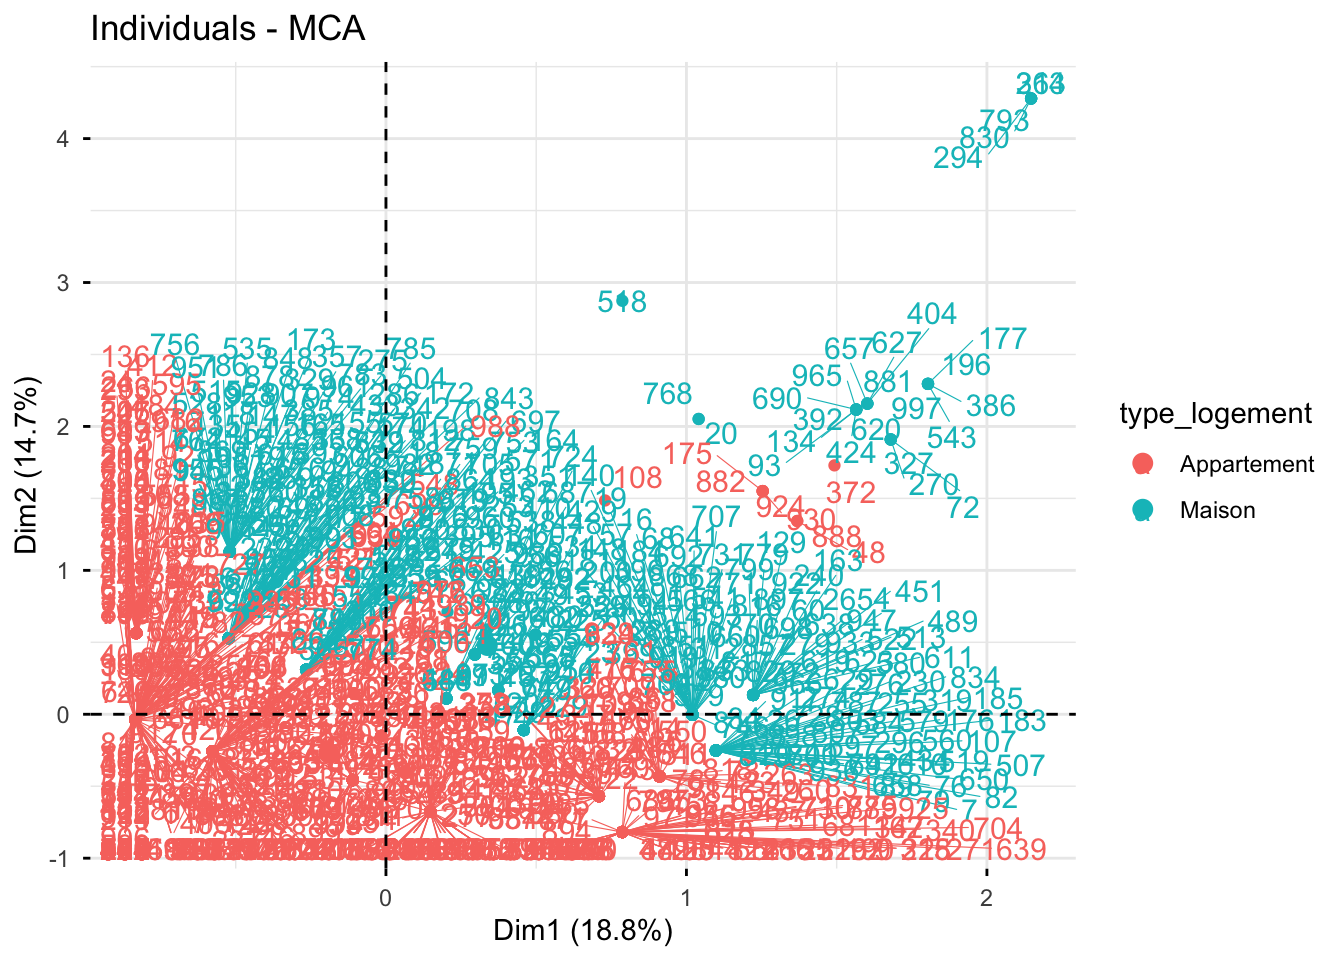
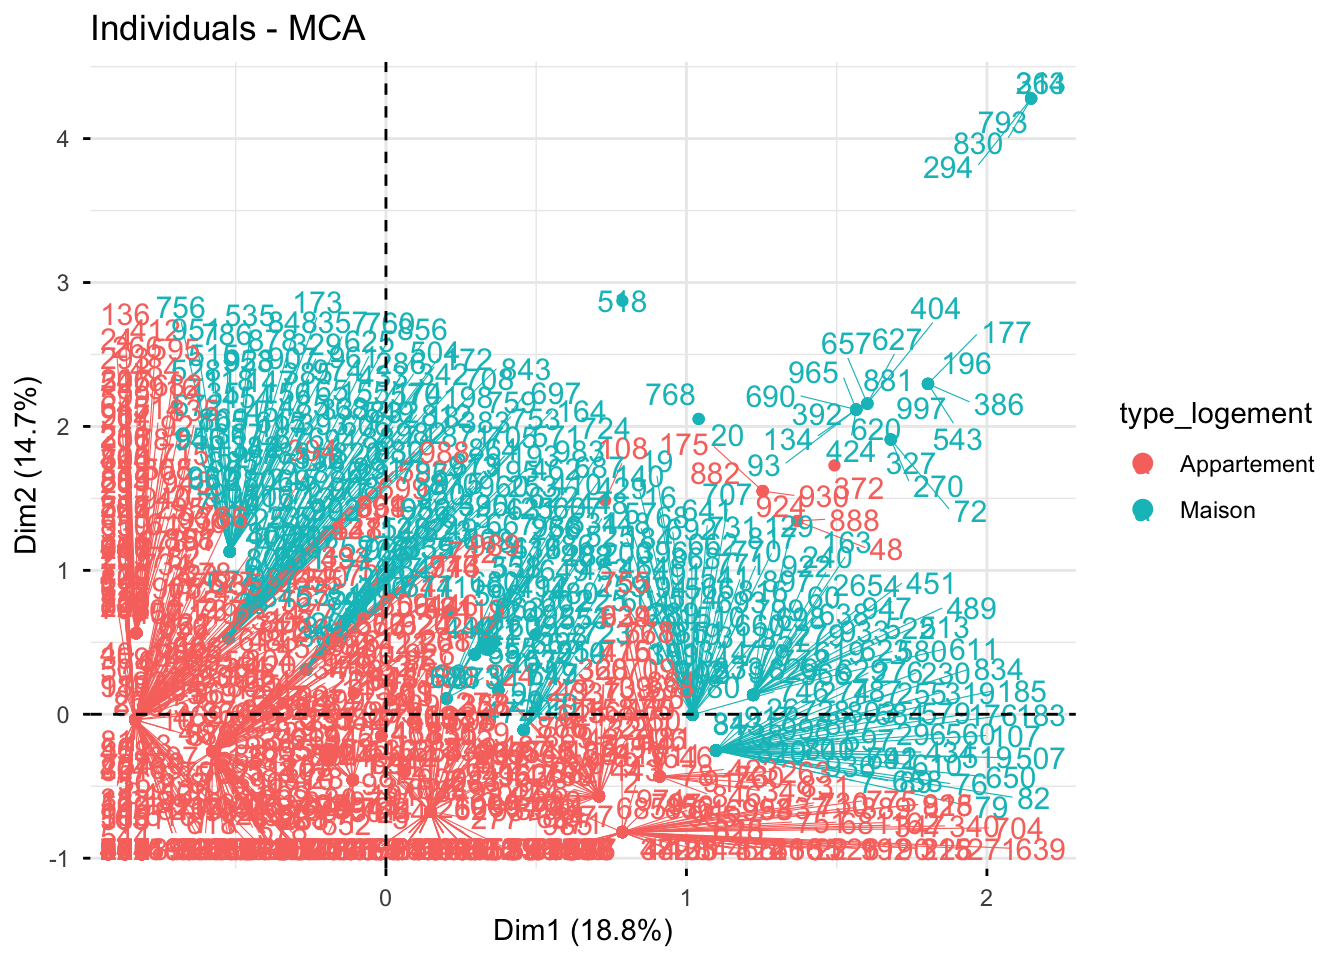
add file

Changed region(s): [[0.0625, 0.2812, 0.8125, 0.9062], [0.6875, 0.0938, 0.7812, 0.1875]]

diff --git a/docs/Part1.html b/docs/Part1.html
@@ -300,6 +300,11 @@ window.Quarto = {
 </section>
 
 </main> <!-- /main -->
+<div style="text-align:center; font-size:0.85em; color:#888; padding:25px;">
+  <strong>© 2026 NGUYEN Duc Hoang Viet — Tous droits réservés.</strong><br>
+  <strong>Université de Lille — Projet Analyse Factorielle DPE<strong><br>
+  Toute reproduction, diffusion ou utilisation sans autorisation est interdite.
+</strong></strong></div><strong><strong>
 <script id="quarto-html-after-body" type="application/javascript">
   window.document.addEventListener("DOMContentLoaded", function (event) {
     const icon = "";
@@ -699,9 +704,9 @@ window.Quarto = {
     }
   });
   </script>
-</div> <!-- /content -->
+</strong></strong></div><strong><strong> <!-- /content -->
 
 
 
 
-</body></html>
+</strong></strong></body></html>

diff --git a/docs/Part2.html b/docs/Part2.html
@@ -533,6 +533,11 @@ Le coefficient de variation de 75 % indique une forte hétérogénéité des âg
 </section>
 
 </main> <!-- /main -->
+<div style="text-align:center; font-size:0.85em; color:#888; padding:25px;">
+  <strong>© 2026 NGUYEN Duc Hoang Viet — Tous droits réservés.</strong><br>
+  <strong>Université de Lille — Projet Analyse Factorielle DPE<strong><br>
+  Toute reproduction, diffusion ou utilisation sans autorisation est interdite.
+</strong></strong></div><strong><strong>
 <script id="quarto-html-after-body" type="application/javascript">
   window.document.addEventListener("DOMContentLoaded", function (event) {
     const icon = "";
@@ -932,9 +937,9 @@ Le coefficient de variation de 75 % indique une forte hétérogénéité des âg
     }
   });
   </script>
-</div> <!-- /content -->
+</strong></strong></div><strong><strong> <!-- /content -->
 
 
 
 
-</body></html>
+</strong></strong></body></html>

diff --git a/docs/Part3.html b/docs/Part3.html
@@ -447,6 +447,11 @@ emission_ges        1.110223e-16  5.551115e-17</code></pre>
 </section>
 
 </main> <!-- /main -->
+<div style="text-align:center; font-size:0.85em; color:#888; padding:25px;">
+  <strong>© 2026 NGUYEN Duc Hoang Viet — Tous droits réservés.</strong><br>
+  <strong>Université de Lille — Projet Analyse Factorielle DPE<strong><br>
+  Toute reproduction, diffusion ou utilisation sans autorisation est interdite.
+</strong></strong></div><strong><strong>
 <script id="quarto-html-after-body" type="application/javascript">
   window.document.addEventListener("DOMContentLoaded", function (event) {
     const icon = "";
@@ -846,9 +851,9 @@ emission_ges        1.110223e-16  5.551115e-17</code></pre>
     }
   });
   </script>
-</div> <!-- /content -->
+</strong></strong></div><strong><strong> <!-- /content -->
 
 
 
 
-</body></html>
+</strong></strong></body></html>

diff --git a/docs/Part4.html b/docs/Part4.html
@@ -406,6 +406,11 @@ Consulter le code Python
 </section>
 
 </main> <!-- /main -->
+<div style="text-align:center; font-size:0.85em; color:#888; padding:25px;">
+  <strong>© 2026 NGUYEN Duc Hoang Viet — Tous droits réservés.</strong><br>
+  <strong>Université de Lille — Projet Analyse Factorielle DPE<strong><br>
+  Toute reproduction, diffusion ou utilisation sans autorisation est interdite.
+</strong></strong></div><strong><strong>
 <script id="quarto-html-after-body" type="application/javascript">
   window.document.addEventListener("DOMContentLoaded", function (event) {
     const icon = "";
@@ -805,9 +810,9 @@ Consulter le code Python
     }
   });
   </script>
-</div> <!-- /content -->
+</strong></strong></div><strong><strong> <!-- /content -->
 
 
 
 
-</body></html>
+</strong></strong></body></html>

diff --git a/docs/Part5.html b/docs/Part5.html
@@ -395,6 +395,11 @@ P value adjustment method: none </code></pre>
 </section>
 
 </main> <!-- /main -->
+<div style="text-align:center; font-size:0.85em; color:#888; padding:25px;">
+  <strong>© 2026 NGUYEN Duc Hoang Viet — Tous droits réservés.</strong><br>
+  <strong>Université de Lille — Projet Analyse Factorielle DPE<strong><br>
+  Toute reproduction, diffusion ou utilisation sans autorisation est interdite.
+</strong></strong></div><strong><strong>
 <script id="quarto-html-after-body" type="application/javascript">
   window.document.addEventListener("DOMContentLoaded", function (event) {
     const icon = "";
@@ -794,9 +799,9 @@ P value adjustment method: none </code></pre>
     }
   });
   </script>
-</div> <!-- /content -->
+</strong></strong></div><strong><strong> <!-- /content -->
 
 
 
 
-</body></html>
+</strong></strong></body></html>

diff --git a/docs/Part6.html b/docs/Part6.html
@@ -361,6 +361,11 @@ window.Quarto = {
 </section>
 
 </main> <!-- /main -->
+<div style="text-align:center; font-size:0.85em; color:#888; padding:25px;">
+  <strong>© 2026 NGUYEN Duc Hoang Viet — Tous droits réservés.</strong><br>
+  <strong>Université de Lille — Projet Analyse Factorielle DPE<strong><br>
+  Toute reproduction, diffusion ou utilisation sans autorisation est interdite.
+</strong></strong></div><strong><strong>
 <script id="quarto-html-after-body" type="application/javascript">
   window.document.addEventListener("DOMContentLoaded", function (event) {
     const icon = "";
@@ -760,9 +765,9 @@ window.Quarto = {
     }
   });
   </script>
-</div> <!-- /content -->
+</strong></strong></div><strong><strong> <!-- /content -->
 
 
 
 
-</body></html>
+</strong></strong></body></html>